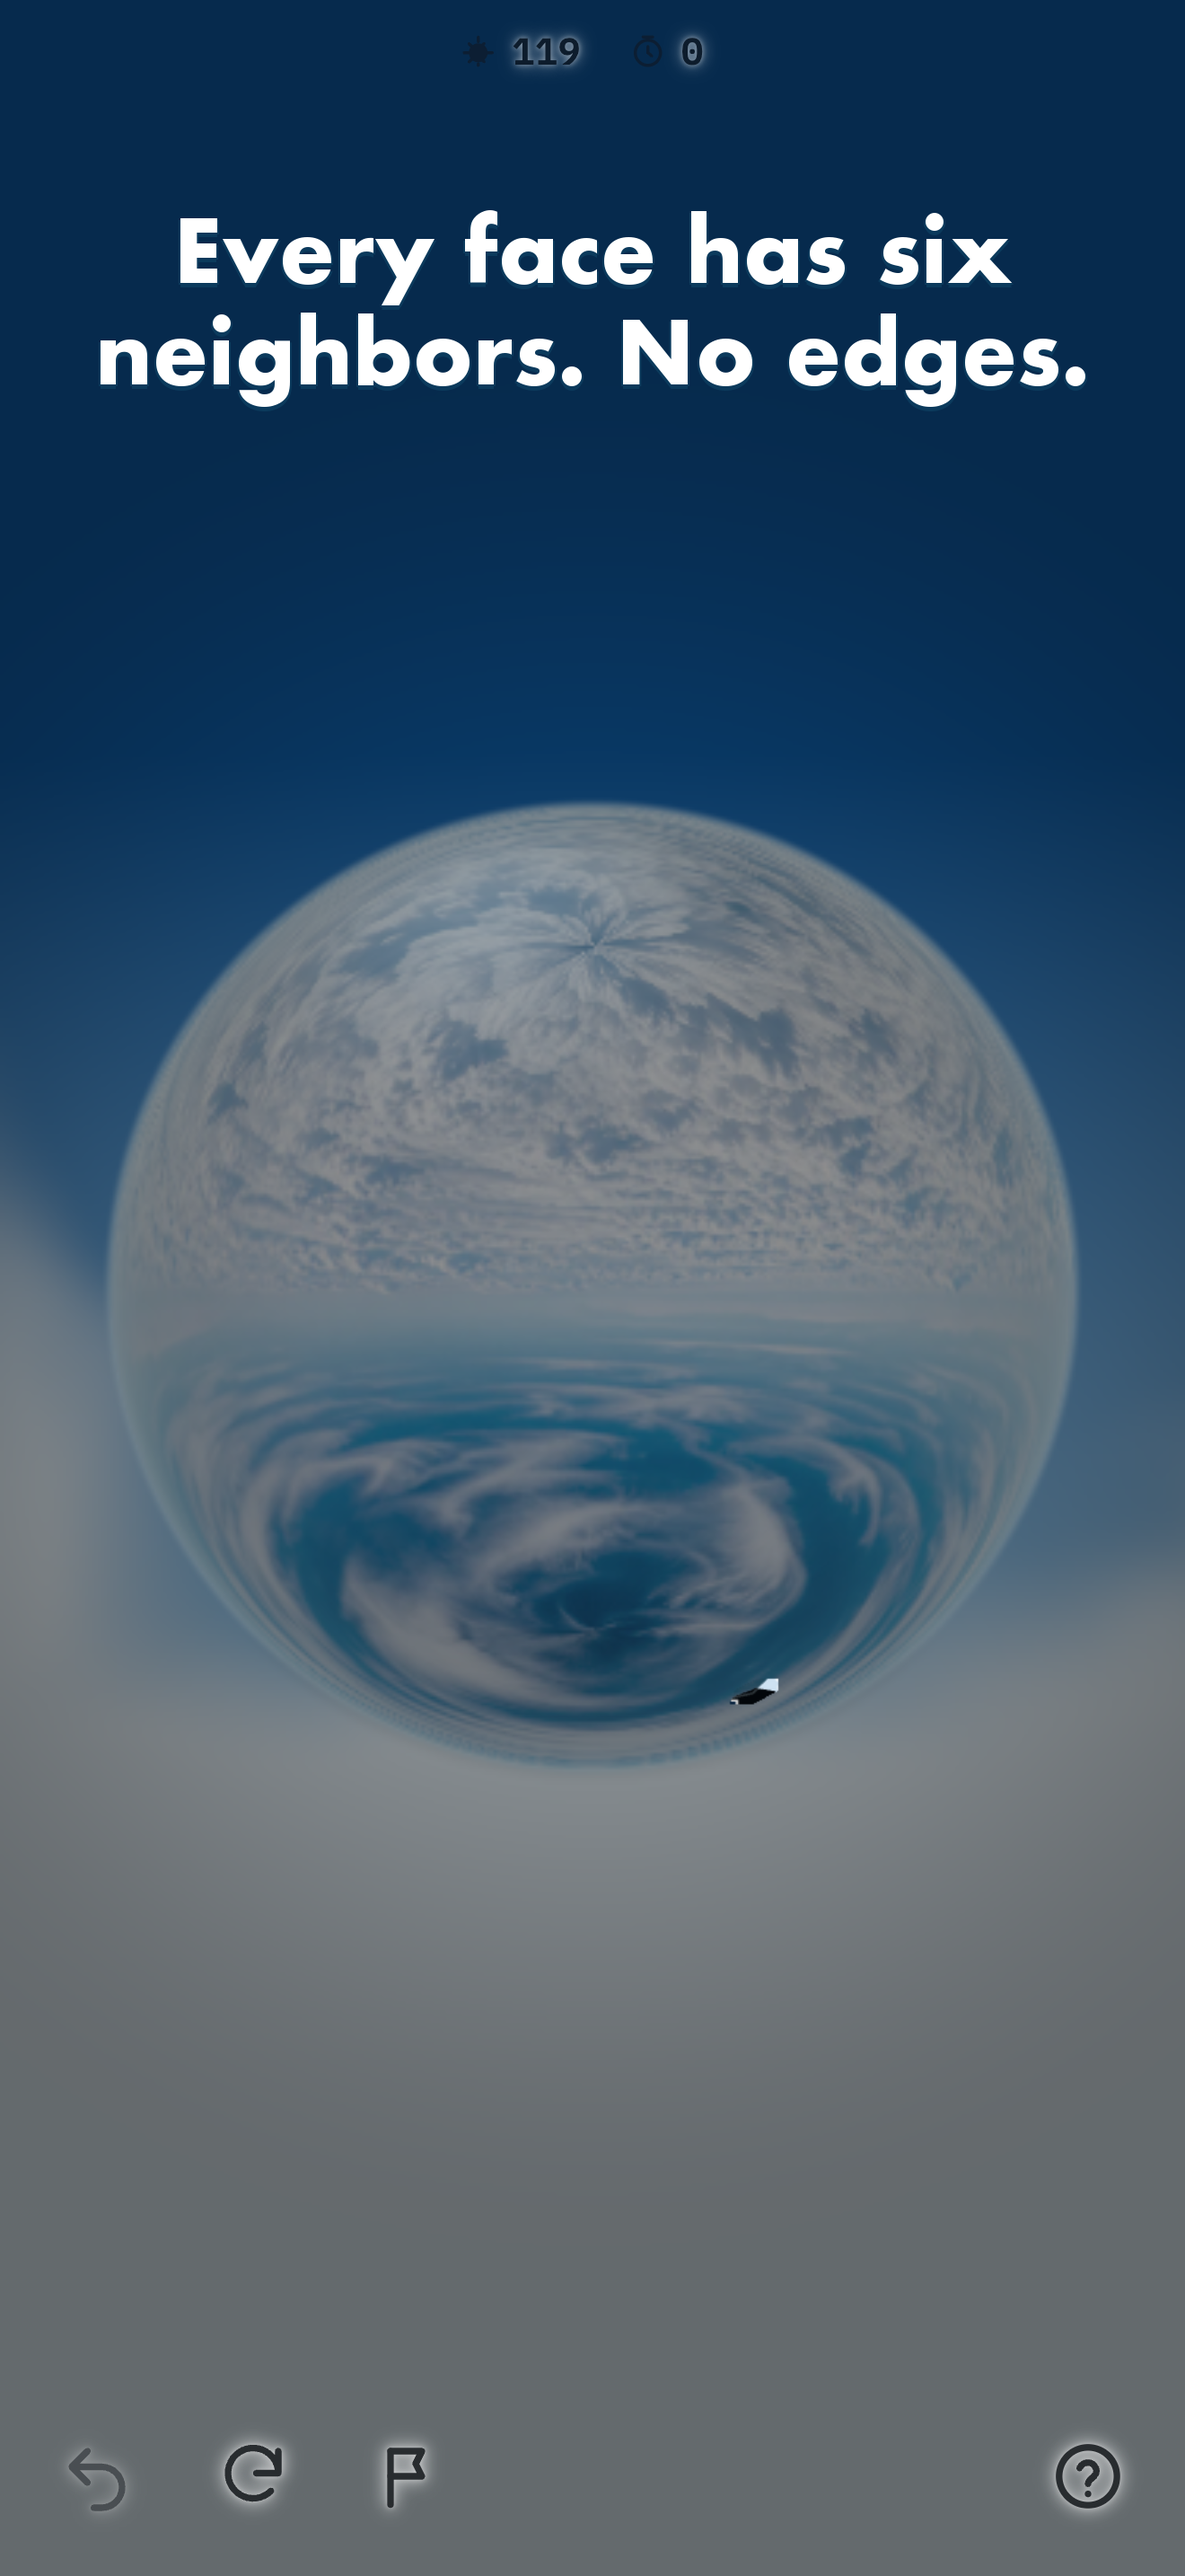
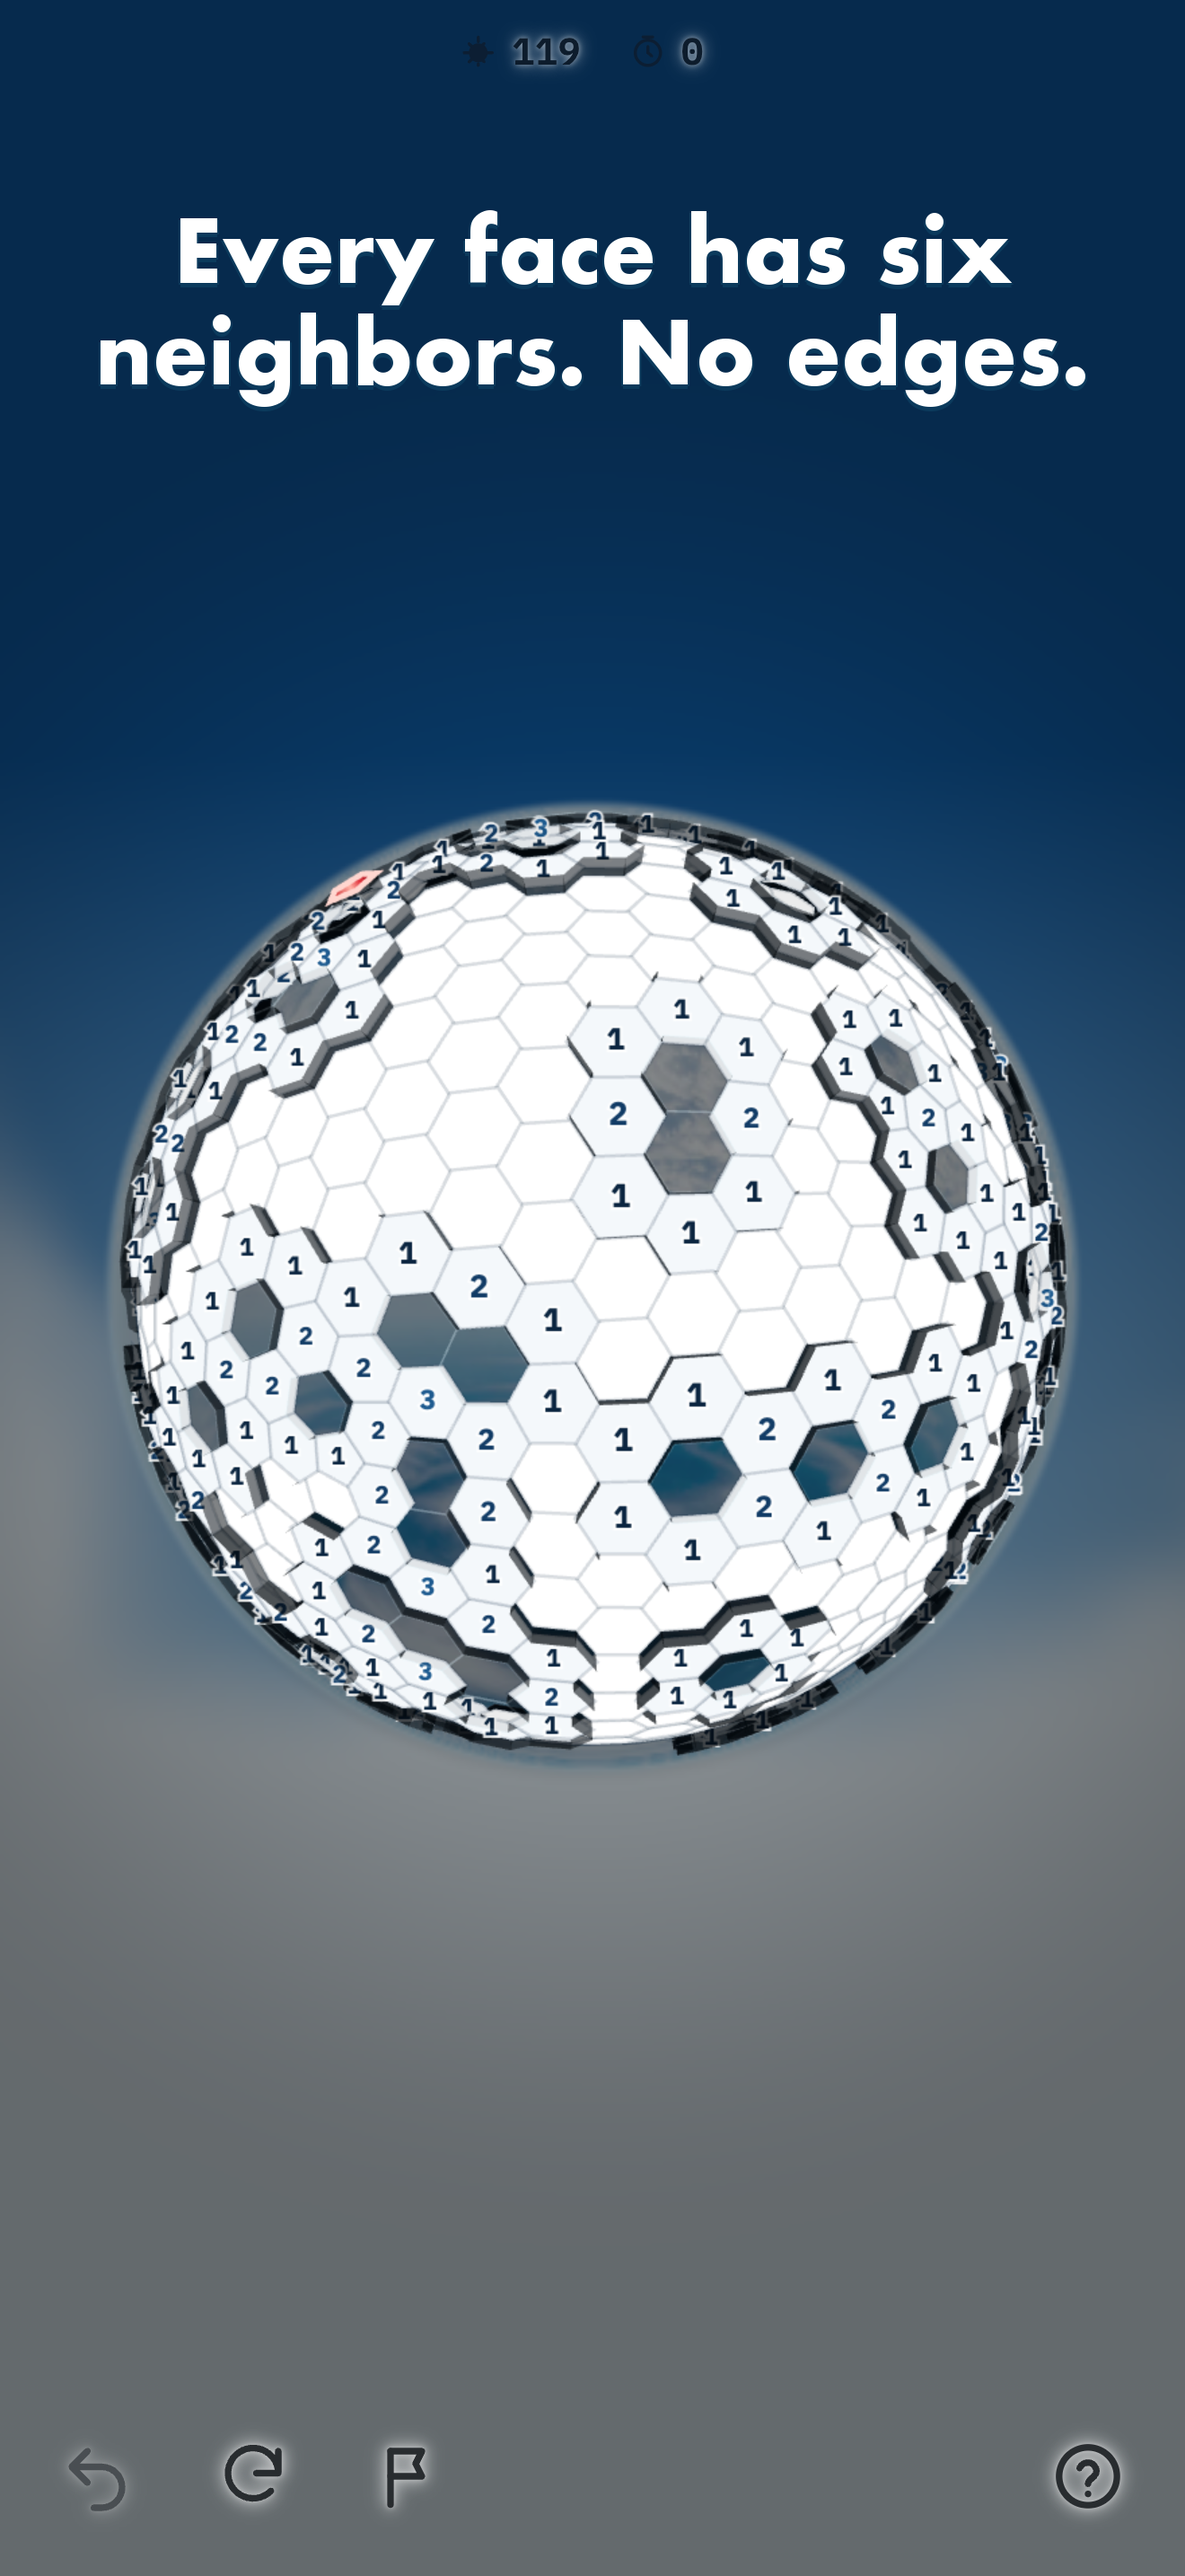
build: stage 61 (payload da4194e, canonical nine themes); screenshots regenerated at 61; Android test 17; Amazon Appstore kit
Screenshots recaptured from the current payload (they were frozen at
build 51). Promotional text no longer calls all nine looks mirrored.
Amazon: store icons, feature graphic, en-US listing copy, and the
submission checklist under app-store/amazon/. TestFlight upload of 61
pending a login-keychain unlock for SSH sessions.

Changed region(s): [[0.0932, 0.3103, 0.9008, 0.6827]]

diff --git a/www/index.html b/www/index.html
@@ -1662,7 +1662,7 @@ body.help-open { overflow: hidden; }
       <p>Clear every safe face. Numbers count mines among the six touching neighbors. Flags mark where you think a mine is.</p>
       <p>Undo, New sphere and Flag mode sit at the bottom left — the flag turns red while armed. Everything else is on this sheet — Themes, Board (size and your best times) and Settings (drag inversion, effects) are the tabs above; each theme brings its own depth, seams and marks. Progress autosaves; New sphere and a size change start over. <button type="button" class="help-link" id="help-tutorial-btn">Show the tutorial again</button></p>
     </div>
-    <p class="help-keys"><kbd>C</kbd> menu · <kbd>F</kbd> flag · <kbd>N</kbd> counts · <kbd>R</kbd> reset · <kbd>?</kbd> help</p>
+    <p class="help-keys"><kbd>T</kbd> theme · <kbd>S</kbd>/<kbd>M</kbd>/<kbd>L</kbd> size · <kbd>F</kbd> flag · <kbd>N</kbd> counts · <kbd>R</kbd> reset · <kbd>?</kbd> help</p>
     <div class="help-history-row">
       <button type="button" class="help-history" id="help-history-btn" aria-label="Open classic square-grid Minesweeper screenshot">
         <img src="assets/classic-minesweeper.png" alt="Classic Windows Minesweeper (square grid)" width="44" height="33" loading="lazy">
@@ -1707,7 +1707,7 @@ body.help-open { overflow: hidden; }
 <div id="tutorial-overlay" class="help-overlay" role="dialog" aria-modal="true" aria-labelledby="tutorial-title" hidden>
   <div class="help-panel is-tutorial" id="tutorial-panel" tabindex="-1">
     <h2 id="tutorial-title">Hexsweeper 3D</h2>
-    <p class="help-lede">Minesweeper on a sphere. Six neighbours per face — numbers count up to six.</p>
+    <p class="help-lede">Minesweeper on a sphere. Six neighbors per face — numbers count up to six.</p>
     <ul class="help-controls tutorial-steps" aria-label="How to play">
       <li><span class="act">Tap</span><span>Clear a face. Your first clear is always safe.</span></li>
       <li><span class="act">Hold</span><span>Place a flag where you think a mine is — or arm flag mode at the bottom.</span></li>
@@ -2538,16 +2538,13 @@ window.HEXSWEEPER_WHEEL_HREF = "wheel.html";
   THEME_LIGHT.warn = { count: "numerals", relief: "extruded", seams: true };
   THEME_DARK.warn = { count: "numerals", relief: "extruded", seams: true };
 
+  // The registered set matches the iOS app roster (help-sheet ROSTER).
+  // Shelved, not deleted — THEME_SHELL/INK/FLOAT/CARD/EARTH/MOON/GLOW stay
+  // defined above but out of the cycle, same pattern as THEME_WATER in the
+  // wheel fork: a stored legacy id falls back to default via readStoredThemeId.
   const THEMES = [
     THEME_LIGHT,
-    THEME_SHELL,
     THEME_DARK,
-    THEME_INK,
-    THEME_FLOAT,
-    THEME_CARD,
-    THEME_EARTH,
-    THEME_MOON,
-    THEME_GLOW,
     THEME_MERCURY,
     THEME_STRATOSPHERE,
     THEME_ION_STORM,
@@ -7841,7 +7838,7 @@ window.HEXSWEEPER_WHEEL_HREF = "wheel.html";
     });
     resize();
 
-    // Deep-link theme: ?theme=earth|moon|light|…
+    // Deep-link theme: ?theme=light|dark|mercury|… (registered ids only)
     try {
       const tid = new URLSearchParams(location.search).get("theme");
       if (tid) {

diff --git a/docs/RELEASE.md b/docs/RELEASE.md
@@ -215,6 +215,12 @@ Done (updated 2026-08-11, through the App Store Connect API):
       in portrait (iOS drops or mis-times the orientation resize); the
       mirror canvas carries the same guard (vendored from hexsweeper
       `9db1a58`)
+- [ ] Build 61 staged 2026-08-20: theme roster converges on the canonical
+      nine (Shell/Ink/Float/Card/Earth/Moon/Glow shelved from the cycle);
+      help sheet documents the real keys (T, S/M/L; dead C removed)
+      (vendored from hexsweeper `da4194e`). Android test 17 ships the
+      same payload. TestFlight upload pending a login-keychain unlock
+      for SSH sessions on this Mac.
 
 Still owed:
 
@@ -242,3 +248,26 @@ xcrun simctl io <udid> screenshot shot.png      # 1320x2868
 Upload is a three-step dance per image: reserve (`POST /v1/appScreenshots`),
 PUT each `uploadOperations` chunk, then commit with the file's **MD5** in
 `sourceFileChecksum`. Set type `APP_IPHONE_67` covers 6.9".
+
+## Amazon Appstore (Fire tablets)
+
+Assets staged under `app-store/amazon/`:
+
+- `images/icon-512.png` and `images/icon-114.png` — resized from the App
+  Store master icon.
+- `images/feature-1024x500.png` — landscape crop of the Mercury store
+  capture (real gameplay, no text overlay).
+- `en-US/` — listing copy adapted from the iOS metadata. The plain name
+  "Hexsweeper" is expected to be available on Amazon; the "3D" suffix was
+  an Apple name-collision workaround only.
+
+Submission checklist (all manual, in the Amazon developer console):
+
+- Build the store APK with `cd android && ./gradlew assembleRelease` —
+  Amazon re-signs uploads, so the unsigned release APK is correct; do not
+  submit the debug-signed direct-download APK. Bump `versionName` from
+  `1.0-test` to `1.0` first.
+- Complete the IARC content-rating questionnaire (no known blockers).
+- Data collection: none (same answers as the iOS privacy manifest).
+- Sideload-verify on a Fire tablet or emulator per `docs/DEVICE_VERIFY.md`
+  before publishing.
